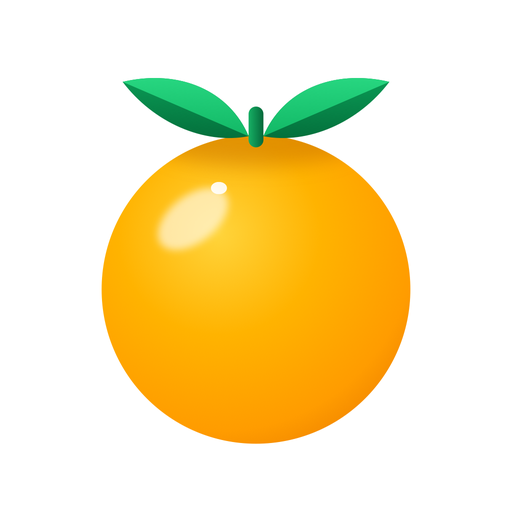
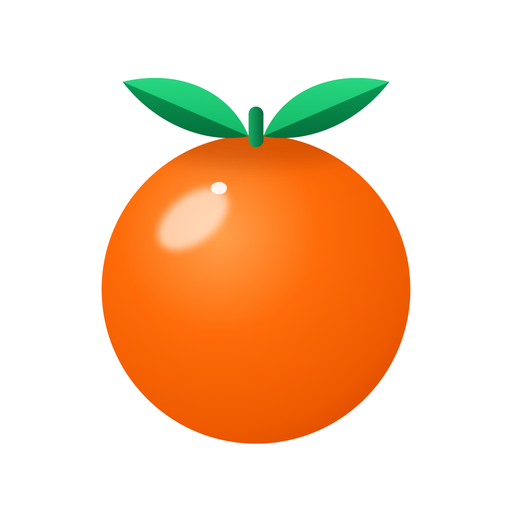
feat: цвет иконки — кожура грейпфрута #FE6B08, репозиторий в melogold-app
Плод иконки перекрашен в цвет кожуры грейпфрута. Ссылки в README
ведут на организацию melogold-app.

Changed region(s): [[0.1875, 0.25, 0.8125, 0.875]]

diff --git a/branding/icon/gen.py b/branding/icon/gen.py
@@ -13,8 +13,8 @@ LEAF_R_TOP = 'M524,324 C554,252 634,214 728,236 Z'
 
 DEFS = '''<defs>
 <radialGradient id="fruit" cx="0.38" cy="0.32" r="0.78">
-<stop offset="0" stop-color="#FFD43B"/><stop offset="0.42" stop-color="#FFB300"/>
-<stop offset="0.82" stop-color="#FF9C00"/><stop offset="1" stop-color="#F08400"/></radialGradient>
+<stop offset="0" stop-color="#FFA04D"/><stop offset="0.42" stop-color="#FE6B08"/>
+<stop offset="0.82" stop-color="#EE5A00"/><stop offset="1" stop-color="#D94A00"/></radialGradient>
 <linearGradient id="leafL" x1="0" y1="0" x2="0" y2="1"><stop offset="0" stop-color="#27D680"/><stop offset="1" stop-color="#12B866"/></linearGradient>
 <linearGradient id="leafD" x1="0" y1="0" x2="0" y2="1"><stop offset="0" stop-color="#0A9A55"/><stop offset="1" stop-color="#04703C"/></linearGradient>
 <linearGradient id="stem" x1="0" y1="0" x2="1" y2="0"><stop offset="0" stop-color="#16B064"/><stop offset="1" stop-color="#05683A"/></linearGradient>
@@ -31,7 +31,7 @@ def leaves_svg():
 def fruit_svg(effects=True):
     s = '<circle cx="512" cy="572" r="250" fill="url(#fruit)"/>'
     if effects:
-        s += ('<g clip-path="url(#fc)"><ellipse cx="512" cy="336" rx="160" ry="36" fill="#B45A00" opacity="0.38" filter="url(#b16)"/></g>'
+        s += ('<g clip-path="url(#fc)"><ellipse cx="512" cy="336" rx="160" ry="36" fill="#9E3300" opacity="0.38" filter="url(#b16)"/></g>'
               '<ellipse cx="410" cy="458" rx="66" ry="38" transform="rotate(-38 410 458)" fill="#FFFFFF" opacity="0.6" filter="url(#b6)"/>'
               '<ellipse cx="452" cy="408" rx="13" ry="10" fill="#FFFFFF" opacity="0.9"/>')
     return s
@@ -50,9 +50,6 @@ def glyph_paths(dy=-30):
     fruit = (f'M{cx-r},{cy} A{r},{r} 0 1,0 {cx+r},{cy} A{r},{r} 0 1,0 {cx-r},{cy} Z '
              f'M{p1[0]:.1f},{p1[1]:.1f} A{rx},{ry} -38 1,0 {p2[0]:.1f},{p2[1]:.1f} A{rx},{ry} -38 1,0 {p1[0]:.1f},{p1[1]:.1f} Z')
     def shift(d):
-        out = []
-        for tok in d.replace(',', ' , ').split():
-            out.append(tok)
         # shift y of every coordinate pair
         res, nums = [], d.replace('M', ' M ').replace('C', ' C ').replace('Z', ' Z ').split()
         for n in nums:

diff --git a/branding/icon/build.py b/branding/icon/build.py
@@ -65,7 +65,7 @@ open(p('apple', 'Melogold.icon', 'Assets', 'fruit.svg'), 'w').write(svg(fruit_sv
 open(p('apple', 'Melogold.icon', 'Assets', 'leaves.svg'), 'w').write(svg(leaves_svg(), MASTER))
 group = lambda name: {"layers": [{"image-name": f"{name}.svg", "name": name}],
                       "shadow": {"kind": "neutral", "opacity": 0.5},
-                      "translucency": {"enabled": True, "value": 0.4}}
+                      "translucency": {"enabled": name == 'leaves', "value": 0.2}}
 json.dump({"fill": "automatic", "groups": [group('leaves'), group('fruit')],
            "supported-platforms": {"circles": ["watchOS"], "squares": "shared"}},
           open(p('apple', 'Melogold.icon', 'icon.json'), 'w'), indent=2)

diff --git a/README.md b/README.md
@@ -18,7 +18,7 @@
 - **Melogold Server хранит только метаданные**: аккаунт, избранное, библиотеку, плейлисты и список
   ваших устройств. Аудиофайлов на сервере нет.
 - **Сервер можно выбрать**: пользоваться официальным или поднять свой.
-- **Приложения обновляются сами** из [GitHub Releases](https://github.com/MaximCemencov/melogoldAndroid/releases) —
+- **Приложения обновляются сами** из [GitHub Releases](https://github.com/melogold-app/melogoldAndroid/releases) —
   без ручного скачивания APK.
 
 ## Статус
@@ -61,7 +61,7 @@
 ## Установка
 
 Первый релиз Melogold ещё не вышел. Сборки будут публиковаться в
-[Releases](https://github.com/MaximCemencov/melogoldAndroid/releases).
+[Releases](https://github.com/melogold-app/melogoldAndroid/releases).
 
 ## Сборка из исходников
 
